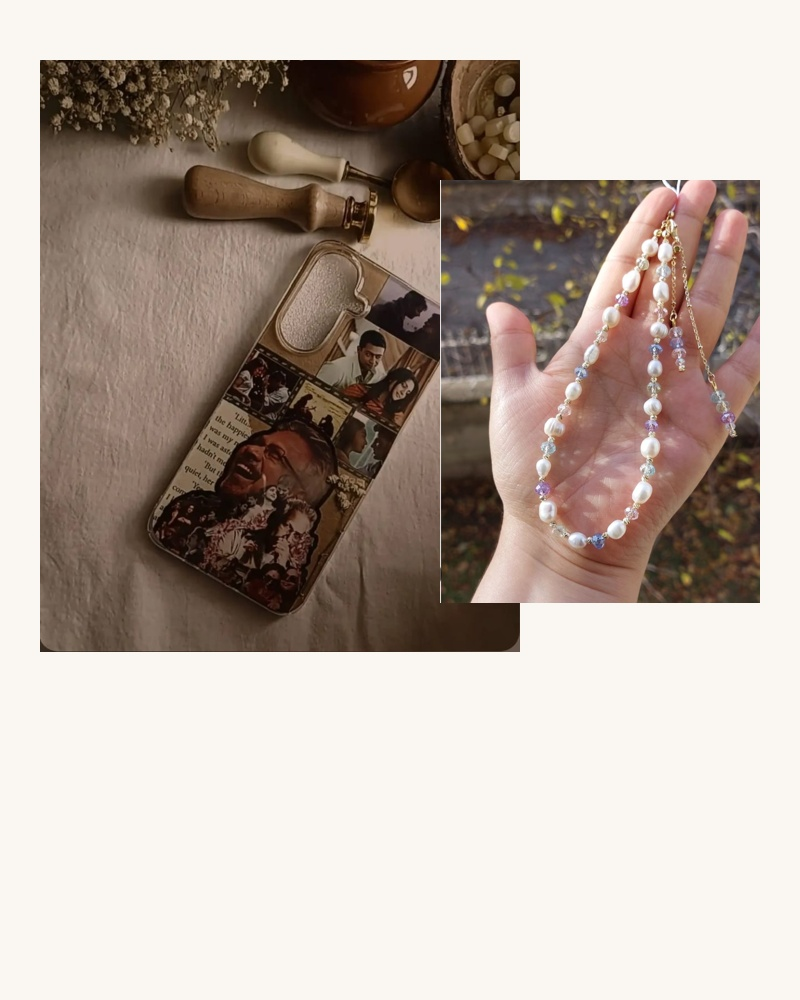
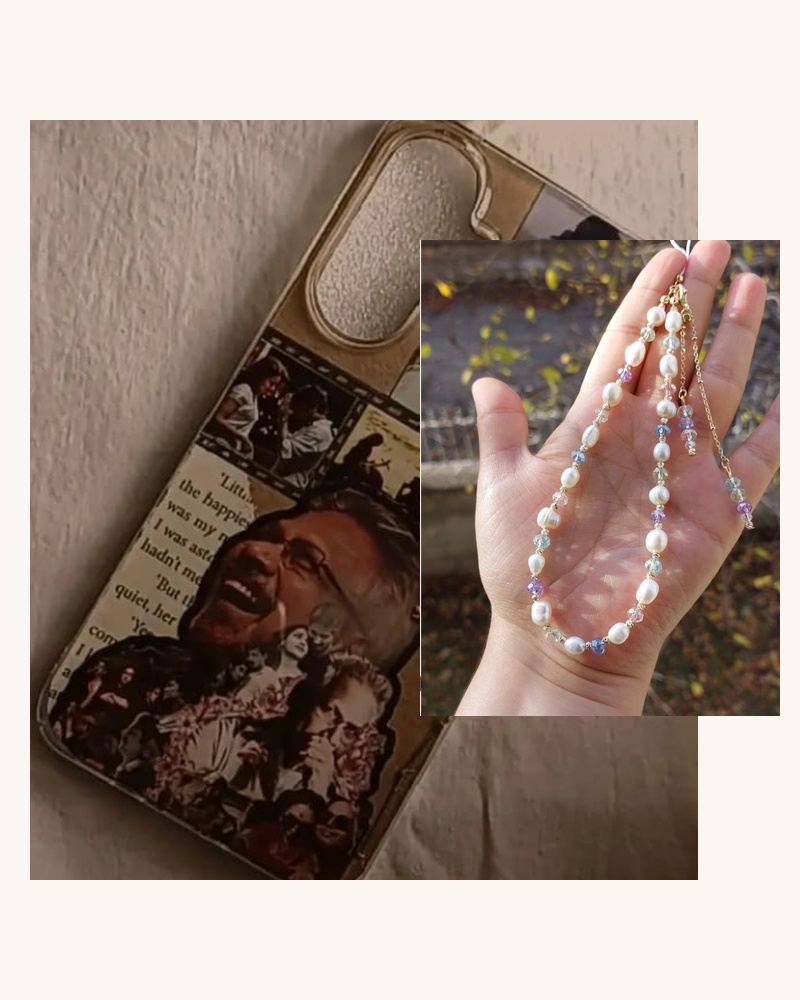
fix(gallery): remove antique tools and blank wall photos from phone cover galleries

diff --git a/backend/src/data/catalog.js b/backend/src/data/catalog.js
@@ -26,17 +26,11 @@ export const PRODUCTS_DATA = [
     image: '/assets/products/pressed-flower-case.jpg',
     gallery: [
       '/assets/products/gallery/case-1.jpg',
-      '/assets/products/gallery/case-2.jpg',
+      '/assets/products/gallery/case-clean.jpg',
       '/assets/products/gallery/case-3.jpg',
       '/assets/products/gallery/case-4.jpg',
-      '/assets/products/gallery/case-5.jpg',
-      '/assets/products/gallery/case-6.jpg',
-      '/assets/products/gallery/case-7.jpg',
-      '/assets/products/gallery/case-8.jpg',
       '/assets/products/gallery/case-9.jpg',
       '/assets/products/gallery/case-10.jpg',
-      '/assets/products/gallery/case-11.jpg',
-      '/assets/products/gallery/case-12.jpg',
     ],
     availableOptions: {
       finishTypes: ['Glossy Resin', 'Matte Soft-Touch'],
@@ -68,16 +62,12 @@ export const PRODUCTS_DATA = [
     gallery: [
       '/assets/products/gallery/chain-1.jpg',
       '/assets/products/gallery/chain-2.jpg',
-      '/assets/products/gallery/chain-3.jpg',
       '/assets/products/gallery/chain-4.jpg',
       '/assets/products/gallery/chain-5.jpg',
       '/assets/products/gallery/chain-6.jpg',
       '/assets/products/gallery/chain-7.jpg',
-      '/assets/products/gallery/chain-8.jpg',
       '/assets/products/gallery/chain-9.jpg',
       '/assets/products/gallery/chain-10.jpg',
-      '/assets/products/gallery/chain-11.jpg',
-      '/assets/products/gallery/chain-12.jpg',
     ],
     availableOptions: {
       chainStyles: ['Baroque Pearl & Rose Quartz', 'Golden Amber & Sunstone', 'Matcha Pastel Beads', 'Classic Monogram Charm'],

diff --git a/frontend/src/data/products.js b/frontend/src/data/products.js
@@ -48,17 +48,11 @@ export const PRODUCTS = [
     image: '/assets/products/pressed-flower-case.jpg',
     gallery: [
       '/assets/products/gallery/case-1.jpg',
-      '/assets/products/gallery/case-2.jpg',
+      '/assets/products/gallery/case-clean.jpg',
       '/assets/products/gallery/case-3.jpg',
       '/assets/products/gallery/case-4.jpg',
-      '/assets/products/gallery/case-5.jpg',
-      '/assets/products/gallery/case-6.jpg',
-      '/assets/products/gallery/case-7.jpg',
-      '/assets/products/gallery/case-8.jpg',
       '/assets/products/gallery/case-9.jpg',
       '/assets/products/gallery/case-10.jpg',
-      '/assets/products/gallery/case-11.jpg',
-      '/assets/products/gallery/case-12.jpg',
     ],
     availableOptions: {
       finishTypes: ['Glossy Resin', 'Matte Soft-Touch'],
@@ -90,16 +84,12 @@ export const PRODUCTS = [
     gallery: [
       '/assets/products/gallery/chain-1.jpg',
       '/assets/products/gallery/chain-2.jpg',
-      '/assets/products/gallery/chain-3.jpg',
       '/assets/products/gallery/chain-4.jpg',
       '/assets/products/gallery/chain-5.jpg',
       '/assets/products/gallery/chain-6.jpg',
       '/assets/products/gallery/chain-7.jpg',
-      '/assets/products/gallery/chain-8.jpg',
       '/assets/products/gallery/chain-9.jpg',
       '/assets/products/gallery/chain-10.jpg',
-      '/assets/products/gallery/chain-11.jpg',
-      '/assets/products/gallery/chain-12.jpg',
     ],
     availableOptions: {
       chainStyles: ['Baroque Pearl & Rose Quartz', 'Golden Amber & Sunstone', 'Matcha Pastel Beads', 'Classic Monogram Charm'],
